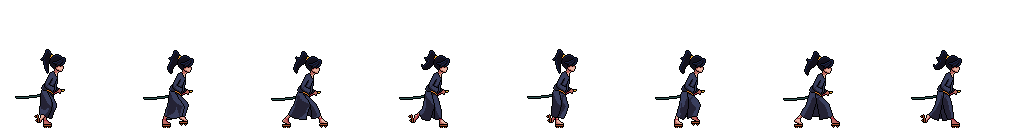
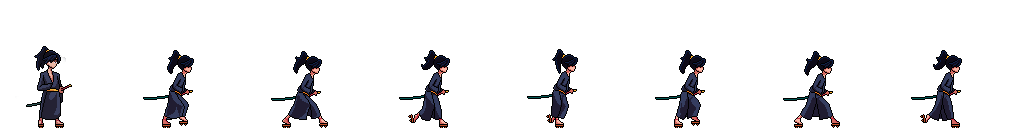
asignacion de personaje dependiendo del equipo, y solo puedo capturar la bandera del equipo contrario

diff --git a/src/main/resources/static/js/scene.js b/src/main/resources/static/js/scene.js
@@ -3,27 +3,51 @@ class game extends Phaser.Scene {
   constructor () {
       super ("gameMap"); // nombre escena
       this.cursors = null; // declara cursors como propiedad
-      this.player = null;
+      this.currentPlayer = null;
+      this.playerId = null; // Declara playerId como propiedad
       this.bandera1=null;
       this.bandera2=null
+      this.getplayer();
+  }
+  
+  getplayer() {
+    const currentUrl = window.location.href;
+    const url = new URL(currentUrl);
+    const params = new URLSearchParams(url.search);
+    const id = params.get('id');
+
+    if (!id) {
+      console.error("ID no encontrado en la URL");
+      return; // Finaliza la ejecución si id es undefined o null
+    }
+  
+    return new Promise((resolve, reject) => {
+      apiclient.getPlayerById(id, (data) => {
+        this.currentPlayer = data; 
+        this.playerId = data.id;
+        this.load.spritesheet("player", this.currentPlayer.path, { frameWidth: 128, frameHeight: 128 });
+
+        resolve(); // Resuelve la promesa
+      });
+    });
   }
   preload(){
     this.load.image("textura","../map/Textures-16.png");
     this.load.tilemapTiledJSON("mapa", "../map/mapa.json");
-    this.load.spritesheet("player","../images/playerA.png",{ frameWidth: 48.4,frameHeight: 50})
     this.load.image("banderaAzul","../images/banderaAzul.png");
     this.load.image("banderaNaranja","../images/banderaNaranja.png");
-
-
   }
 
-  create(){
-  
+
+  async create(){
+    await this.getplayer();
+    this.cursors = this.input.keyboard.createCursorKeys();
+
 
     //anikmaciones
     this.anims.create({
       key: "caminar",
-      frames: this.anims.generateFrameNumbers("player",{start:4,end:9}),
+      frames: this.anims.generateFrameNumbers("player",{start:1,end:7}),
       frameRate:10,
       repeat:-1
   });
@@ -43,12 +67,20 @@ class game extends Phaser.Scene {
     fondo.setCollisionByProperty({colision:true});
 
     //primer personaje
-    this.player = this.physics.add.sprite(500,500,"player")
-    this.player.setCollideWorldBounds(true);
-    this.player.setScale(2);
-    this.player.setSize(20,40);
-    this.player.setOffset(5,10);
-    this.playerId = app.getPlayerId();
+    if(this.currentPlayer.path =="../images/playerA.png"){
+      this.player = this.physics.add.sprite(500,500,"player")
+      this.player.setCollideWorldBounds(true);
+      this.player.setScale(1);
+      this.player.setSize(30,80);
+      this.player.setOffset(50,47);
+    }else{
+      this.player = this.physics.add.sprite(500,500,"player")
+      this.player.setCollideWorldBounds(true);
+      this.player.setScale(1);
+      this.player.setSize(30,80);
+      this.player.setOffset(36,47);
+    }
+    
 
     //banderas
     this.bandera1 = this.physics.add.sprite(1280, 950, 'banderaAzul');
@@ -61,19 +93,30 @@ class game extends Phaser.Scene {
 
 
     //teclas y coliciones
-    this.cursors = this.input.keyboard.createCursorKeys();
     this.physics.add.collider(this.player,fondo)
-    this.physics.add.overlap(this.player, this.bandera1, (player, flag) => this.collectFlag(player,flag), null, this);
-    this.physics.add.overlap(this.player, this.bandera2, (player, flag) => this.collectFlag(player,flag), null, this);
+    
+    if(this.currentPlayer.path =="../images/playerA.png"){
+      this.physics.add.overlap(this.player, this.bandera1, (player, flag) => this.collectFlag(player,flag), null, this);
+    }else{
+      this.physics.add.overlap(this.player, this.bandera2, (player, flag) => this.collectFlag(player,flag), null, this);
+
+    }
 
 
     
   }
   update(){
+    if (!this.cursors) return;
+
     if(this.cursors.right.isDown){
       this.player.setVelocityX(150);
       this.player.anims.play("caminar",true);
-      this.player.setOffset(5,10)
+      if(this.currentPlayer.path =="../images/playerA.png"){
+        this.player.setOffset(50,47)
+      }else{
+        this.player.setOffset(38,47)
+      }
+      
       if(this.player.flipX==true) {
         this.player.x=this.player.x+19
       }
@@ -86,7 +129,11 @@ class game extends Phaser.Scene {
         this.player.x=this.player.x-19
       }
       this.player.flipX=true;
-      this.player.setOffset(22,10)      
+      if(this.currentPlayer.path =="../images/playerA.png"){
+        this.player.setOffset(50,47)
+      }else{
+        this.player.setOffset(62,47)
+      }      
     }else if(this.cursors.up.isDown){
       this.player.setVelocityY(-150);
       this.player.anims.play("caminar",true);
@@ -106,24 +153,21 @@ class game extends Phaser.Scene {
 
 
   collectFlag(player, flag) {
-    // Oculta la bandera cuando el jugador la captura
+    if (!this.player) return;
     flag.disableBody(true, true);
-
-    // Obtiene el ID del jugador de la URL
-    const currentUrl = window.location.href;
-    const url = new URL(currentUrl);
-    const params = new URLSearchParams(url.search);
-    const id = params.get('id');
-
-    console.log("ID del jugador:", id); // Verifica que obtienes el ID correcto
-
-    // Asegúrate de que estás pasando una función de callback
-    app.captureFlag(id, function(response) {
-      if (response) {
+    console.log("Player ID:", this.playerId);
+  
+    if (this.playerId) {
+      app.captureFlag(this.playerId, function(response) {
+        if (response) {
           console.log("Respuesta del servidor:", response);
-      } else {
+        } else {
           console.error("No se recibió respuesta del servidor.");
-      }
-  });
+        }
+      });
+    } else {
+      console.error("ID del jugador no encontrado.");
+    }
   }
+  
 }

diff --git a/src/main/resources/static/js/apiclient.js b/src/main/resources/static/js/apiclient.js
@@ -74,7 +74,7 @@ var apiclient = (function () {
             });
         },
         getPlayerById: function (id, callback) {
-            $.get(`${apiUrl}/pLayers/${id}`, function (data) {
+            $.get(`${apiUrl}/players/${id}`, function (data) {
                 callback(data);
             }).fail(function (error) {
                 console.error("Error al obtener equipos:", error);

diff --git a/src/main/resources/templates/game.html b/src/main/resources/templates/game.html
@@ -10,8 +10,8 @@
 </head>
 <body>
     <div class="puntajes">
-        <p id="equipoA">Equipo Azul: 0</p>
-        <p id="equipoB">Equipo Naranja: 0</p>
+        <p id="equipoA">Equipo Naranja: 0</p>
+        <p id="equipoB">Equipo Azul: 0</p>
     </div>
     
             <script type="text/javascript" src="js/scene.js"></script>

diff --git a/src/main/java/edu/eci/arsw/project/flagwarriors/api/PlayerAPIController.java b/src/main/java/edu/eci/arsw/project/flagwarriors/api/PlayerAPIController.java
@@ -34,17 +34,9 @@ public class PlayerAPIController {
 
 
     
-    @GetMapping("/{name}")
-    public ResponseEntity<Player> getPlayer(@PathVariable String name) {
-        Player player = playerService.getPlayerByName(name);
-        if (player != null) {
-            return new ResponseEntity<>(player, HttpStatus.OK);
-        } else {
-            return new ResponseEntity<>(HttpStatus.NOT_FOUND);
-        }
-    }
+    
     @GetMapping("/{id}")
-    public ResponseEntity<Player> getPlayer(@PathVariable long id) {
+    public ResponseEntity<Player> getPlayerbyId(@PathVariable long id) {
         Player player = playerService.getPlayerById(id);
         if (player != null) {
             return new ResponseEntity<>(player, HttpStatus.OK);

diff --git a/src/main/java/edu/eci/arsw/project/flagwarriors/model/Player.java b/src/main/java/edu/eci/arsw/project/flagwarriors/model/Player.java
@@ -27,6 +27,9 @@ public class Player {
     @JsonIgnore
     private Team team; 
 
+    @Column(name = "path",nullable = true)
+    private String path;
+
     public Player() {
     }
 
@@ -76,6 +79,13 @@ public class Player {
     
     public void setFlag(boolean flag) {
         this.flag = flag;
+    }
+    public String getPath() {
+        return path;  
+    }
+    
+    public void setPath(String path) {
+        this.path = path;
     }
     
 }

diff --git a/src/main/java/edu/eci/arsw/project/flagwarriors/service/PlayerService.java b/src/main/java/edu/eci/arsw/project/flagwarriors/service/PlayerService.java
@@ -25,6 +25,8 @@ public class PlayerService {
         List<Team> teams = teamRepository.findAll();
        
         Team teamToAssign = teams.get(playerCount % 2);
+        String path = teamToAssign.getPath();
+        player.setPath(path);
         
         Team managedTeam = teamRepository.findById(teamToAssign.getId())
         .orElseThrow(() -> new RuntimeException("Team not found"));
